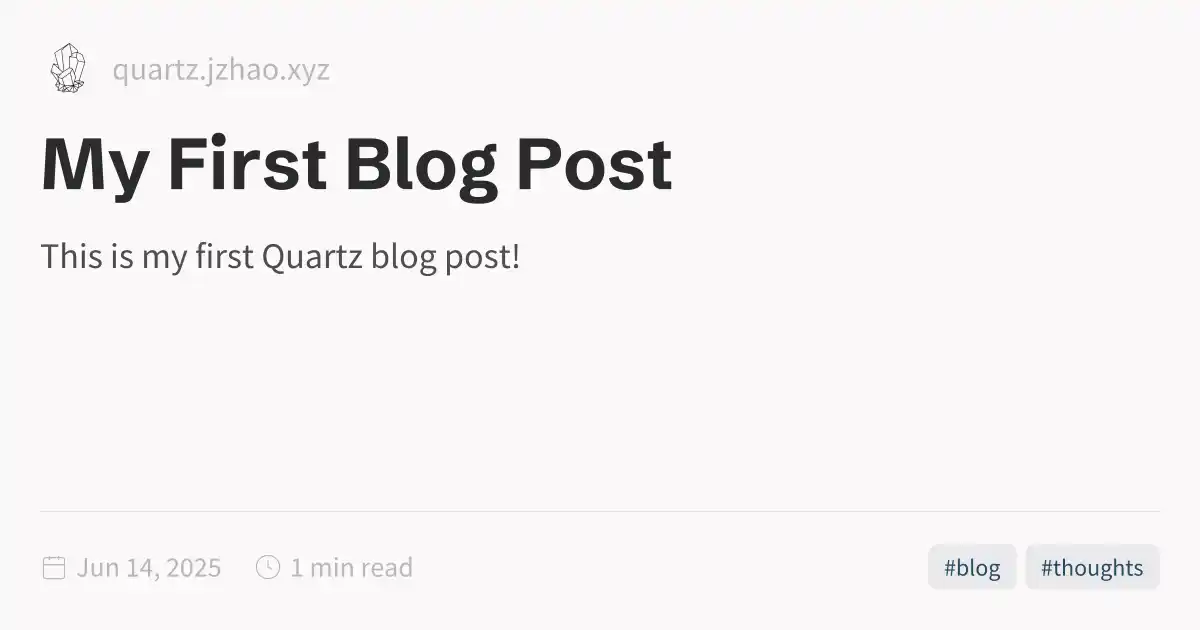
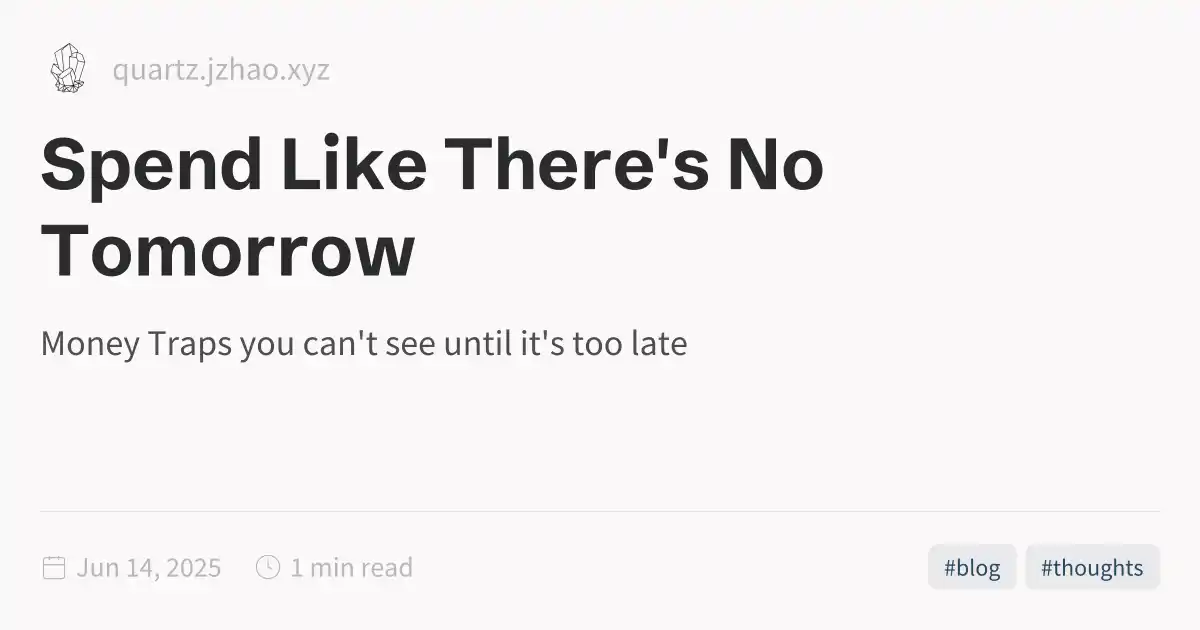
Update site content

Changed region(s): [[0.0308, 0.2111, 0.7092, 0.3317], [0.0308, 0.3317, 0.4317, 0.4524], [0.0308, 0.5127, 0.5858, 0.573]]

diff --git a/blog-first-post.html b/blog-first-post.html
@@ -1,5 +1,5 @@
 <!DOCTYPE html>
-<html lang="en"><head><title>My First Blog Post</title><meta charset="utf-8"/><link rel="preconnect" href="https://fonts.googleapis.com"/><link rel="preconnect" href="https://fonts.gstatic.com"/><link rel="stylesheet" href="https://fonts.googleapis.com/css2?family=Schibsted Grotesk:wght@400;700&amp;family=Source Sans Pro:ital,wght@0,400;0,600;1,400;1,600&amp;family=IBM Plex Mono:wght@400;600&amp;display=swap"/><link rel="preconnect" href="https://cdnjs.cloudflare.com" crossorigin="anonymous"/><meta name="viewport" content="width=device-width, initial-scale=1.0"/><meta name="og:site_name" content="MoneyBoth"/><meta property="og:title" content="My First Blog Post"/><meta property="og:type" content="website"/><meta name="twitter:card" content="summary_large_image"/><meta name="twitter:title" content="My First Blog Post"/><meta name="twitter:description" content="This is my first Quartz blog post!"/><meta property="og:description" content="This is my first Quartz blog post!"/><meta property="og:image:alt" content="This is my first Quartz blog post!"/><meta property="twitter:domain" content="quartz.jzhao.xyz"/><meta property="og:url" content="https://quartz.jzhao.xyz/blog-first-post"/><meta property="twitter:url" content="https://quartz.jzhao.xyz/blog-first-post"/><link rel="icon" href="./static/icon.png"/><meta name="description" content="This is my first Quartz blog post!"/><meta name="generator" content="Quartz"/><link href="./index.css" rel="stylesheet" type="text/css" spa-preserve/><style>.expand-button {
+<html lang="en"><head><title>Spend Like There's No Tomorrow</title><meta charset="utf-8"/><link rel="preconnect" href="https://fonts.googleapis.com"/><link rel="preconnect" href="https://fonts.gstatic.com"/><link rel="stylesheet" href="https://fonts.googleapis.com/css2?family=Schibsted Grotesk:wght@400;700&amp;family=Source Sans Pro:ital,wght@0,400;0,600;1,400;1,600&amp;family=IBM Plex Mono:wght@400;600&amp;display=swap"/><link rel="preconnect" href="https://cdnjs.cloudflare.com" crossorigin="anonymous"/><meta name="viewport" content="width=device-width, initial-scale=1.0"/><meta name="og:site_name" content="MoneyBoth"/><meta property="og:title" content="Spend Like There's No Tomorrow"/><meta property="og:type" content="website"/><meta name="twitter:card" content="summary_large_image"/><meta name="twitter:title" content="Spend Like There's No Tomorrow"/><meta name="twitter:description" content="Money Traps you can't see until it's too late"/><meta property="og:description" content="Money Traps you can't see until it's too late"/><meta property="og:image:alt" content="Money Traps you can't see until it's too late"/><meta property="twitter:domain" content="quartz.jzhao.xyz"/><meta property="og:url" content="https://quartz.jzhao.xyz/blog-first-post"/><meta property="twitter:url" content="https://quartz.jzhao.xyz/blog-first-post"/><link rel="icon" href="./static/icon.png"/><meta name="description" content="Money Traps you can't see until it's too late"/><meta name="generator" content="Quartz"/><link href="./index.css" rel="stylesheet" type="text/css" spa-preserve/><style>.expand-button {
   position: absolute;
   display: flex;
   float: right;
@@ -116,13 +116,8 @@ pre:hover > .expand-button {
   padding: 0 12px;
   font-size: 14px;
 }
[1 lines of base64/hex data omitted]
-<p>You can add <strong>Markdown</strong>, links, images, etc.</p>
-<ul>
-<li>Bullet points</li>
-<li>Code blocks</li>
-<li>Quotes</li>
-</ul></article><hr/><div class="page-footer"></div></div><div class="right sidebar"><div class="graph"><h3>Graph View</h3><div class="graph-outer"><div class="graph-container" data-cfg="{&quot;drag&quot;:true,&quot;zoom&quot;:true,&quot;depth&quot;:1,&quot;scale&quot;:1.1,&quot;repelForce&quot;:0.5,&quot;centerForce&quot;:0.3,&quot;linkDistance&quot;:30,&quot;fontSize&quot;:0.6,&quot;opacityScale&quot;:1,&quot;showTags&quot;:true,&quot;removeTags&quot;:[],&quot;focusOnHover&quot;:false,&quot;enableRadial&quot;:false}"></div><button class="global-graph-icon" aria-label="Global Graph"><svg version="1.1" xmlns="http://www.w3.org/2000/svg" xmlns:xlink="http://www.w3.org/1999/xlink" x="0px" y="0px" viewBox="0 0 55 55" fill="currentColor" xml:space="preserve"><path d="M49,0c-3.309,0-6,2.691-6,6c0,1.035,0.263,2.009,0.726,2.86l-9.829,9.829C32.542,17.634,30.846,17,29,17
[1 lines of base64/hex data omitted]
+<p>That’s right - “How was your weekend?” Oh we went to</p></article><hr/><div class="page-footer"></div></div><div class="right sidebar"><div class="graph"><h3>Graph View</h3><div class="graph-outer"><div class="graph-container" data-cfg="{&quot;drag&quot;:true,&quot;zoom&quot;:true,&quot;depth&quot;:1,&quot;scale&quot;:1.1,&quot;repelForce&quot;:0.5,&quot;centerForce&quot;:0.3,&quot;linkDistance&quot;:30,&quot;fontSize&quot;:0.6,&quot;opacityScale&quot;:1,&quot;showTags&quot;:true,&quot;removeTags&quot;:[],&quot;focusOnHover&quot;:false,&quot;enableRadial&quot;:false}"></div><button class="global-graph-icon" aria-label="Global Graph"><svg version="1.1" xmlns="http://www.w3.org/2000/svg" xmlns:xlink="http://www.w3.org/1999/xlink" x="0px" y="0px" viewBox="0 0 55 55" fill="currentColor" xml:space="preserve"><path d="M49,0c-3.309,0-6,2.691-6,6c0,1.035,0.263,2.009,0.726,2.86l-9.829,9.829C32.542,17.634,30.846,17,29,17
                 s-3.542,0.634-4.898,1.688l-7.669-7.669C16.785,10.424,17,9.74,17,9c0-2.206-1.794-4-4-4S9,6.794,9,9s1.794,4,4,4
                 c0.74,0,1.424-0.215,2.019-0.567l7.669,7.669C21.634,21.458,21,23.154,21,25s0.634,3.542,1.688,4.897L10.024,42.562
                 C8.958,41.595,7.549,41,6,41c-3.309,0-6,2.691-6,6s2.691,6,6,6s6-2.691,6-6c0-1.035-0.263-2.009-0.726-2.86l12.829-12.829

diff --git a/tags/blog.html b/tags/blog.html
@@ -116,6 +116,6 @@ pre:hover > .expand-button {
   padding: 0 12px;
   font-size: 14px;
 }
[2 lines of base64/hex data omitted]
 </script><script type="module">function f(i,e){if(!i)return;function r(o){o.target===this&&(o.preventDefault(),o.stopPropagation(),e())}function t(o){o.key.startsWith("Esc")&&(o.preventDefault(),e())}i?.addEventListener("click",r),window.addCleanup(()=>i?.removeEventListener("click",r)),document.addEventListener("keydown",t),window.addCleanup(()=>document.removeEventListener("keydown",t))}function y(i){for(;i.firstChild;)i.removeChild(i.firstChild)}var h=class{constructor(e,r){this.container=e;this.content=r;this.setupEventListeners(),this.setupNavigationControls(),this.resetTransform()}isDragging=!1;startPan={x:0,y:0};currentPan={x:0,y:0};scale=1;MIN_SCALE=.5;MAX_SCALE=3;cleanups=[];setupEventListeners(){let e=this.onMouseDown.bind(this),r=this.onMouseMove.bind(this),t=this.onMouseUp.bind(this),o=this.resetTransform.bind(this);this.container.addEventListener("mousedown",e),document.addEventListener("mousemove",r),document.addEventListener("mouseup",t),window.addEventListener("resize",o),this.cleanups.push(()=>this.container.removeEventListener("mousedown",e),()=>document.removeEventListener("mousemove",r),()=>document.removeEventListener("mouseup",t),()=>window.removeEventListener("resize",o))}cleanup(){for(let e of this.cleanups)e()}setupNavigationControls(){let e=document.createElement("div");e.className="mermaid-controls";let r=this.createButton("+",()=>this.zoom(.1)),t=this.createButton("-",()=>this.zoom(-.1)),o=this.createButton("Reset",()=>this.resetTransform());e.appendChild(t),e.appendChild(o),e.appendChild(r),this.container.appendChild(e)}createButton(e,r){let t=document.createElement("button");return t.textContent=e,t.className="mermaid-control-button",t.addEventListener("click",r),window.addCleanup(()=>t.removeEventListener("click",r)),t}onMouseDown(e){e.button===0&&(this.isDragging=!0,this.startPan={x:e.clientX-this.currentPan.x,y:e.clientY-this.currentPan.y},this.container.style.cursor="grabbing")}onMouseMove(e){this.isDragging&&(e.preventDefault(),this.currentPan={x:e.clientX-this.startPan.x,y:e.clientY-this.startPan.y},this.updateTransform())}onMouseUp(){this.isDragging=!1,this.container.style.cursor="grab"}zoom(e){let r=Math.min(Math.max(this.scale+e,this.MIN_SCALE),this.MAX_SCALE),t=this.content.getBoundingClientRect(),o=t.width/2,n=t.height/2,c=r-this.scale;this.currentPan.x-=o*c,this.currentPan.y-=n*c,this.scale=r,this.updateTransform()}updateTransform(){this.content.style.transform=`translate(${this.currentPan.x}px, ${this.currentPan.y}px) scale(${this.scale})`}resetTransform(){this.scale=1;let e=this.content.querySelector("svg");this.currentPan={x:e.getBoundingClientRect().width/2,y:e.getBoundingClientRect().height/2},this.updateTransform()}},C=["--secondary","--tertiary","--gray","--light","--lightgray","--highlight","--dark","--darkgray","--codeFont"],E;document.addEventListener("nav",async()=>{let e=document.querySelector(".center").querySelectorAll("code.mermaid");if(e.length===0)return;E||=await import("https://cdnjs.cloudflare.com/ajax/libs/mermaid/11.4.0/mermaid.esm.min.mjs");let r=E.default,t=new WeakMap;for(let n of e)t.set(n,n.innerText);async function o(){for(let s of e){s.removeAttribute("data-processed");let a=t.get(s);a&&(s.innerHTML=a)}let n=C.reduce((s,a)=>(s[a]=window.getComputedStyle(document.documentElement).getPropertyValue(a),s),{}),c=document.documentElement.getAttribute("saved-theme")==="dark";r.initialize({startOnLoad:!1,securityLevel:"loose",theme:c?"dark":"base",themeVariables:{fontFamily:n["--codeFont"],primaryColor:n["--light"],primaryTextColor:n["--darkgray"],primaryBorderColor:n["--tertiary"],lineColor:n["--darkgray"],secondaryColor:n["--secondary"],tertiaryColor:n["--tertiary"],clusterBkg:n["--light"],edgeLabelBackground:n["--highlight"]}}),await r.run({nodes:e})}await o(),document.addEventListener("themechange",o),window.addCleanup(()=>document.removeEventListener("themechange",o));for(let n=0;n<e.length;n++){let v=function(){let g=l.querySelector("#mermaid-space"),m=l.querySelector(".mermaid-content");if(!m)return;y(m);let w=c.querySelector("svg").cloneNode(!0);m.appendChild(w),l.classList.add("active"),g.style.cursor="grab",u=new h(g,m)},M=function(){l.classList.remove("active"),u?.cleanup(),u=null},c=e[n],s=c.parentElement,a=s.querySelector(".clipboard-button"),d=s.querySelector(".expand-button"),p=window.getComputedStyle(a),L=a.offsetWidth+parseFloat(p.marginLeft||"0")+parseFloat(p.marginRight||"0");d.style.right=`calc(${L}px + 0.3rem)`,s.prepend(d);let l=s.querySelector("#mermaid-container");if(!l)return;let u=null;d.addEventListener("click",v),f(l,M),window.addCleanup(()=>{u?.cleanup(),d.removeEventListener("click",v)})}});
 </script><script src="https://cdn.jsdelivr.net/npm/katex@0.16.11/dist/contrib/copy-tex.min.js" type="application/javascript"></script><script src="../postscript.js" type="module"></script></html>

diff --git a/tags/index.html b/tags/index.html
@@ -116,6 +116,6 @@ pre:hover > .expand-button {
   padding: 0 12px;
   font-size: 14px;
 }
[2 lines of base64/hex data omitted]
 </script><script type="module">function f(i,e){if(!i)return;function r(o){o.target===this&&(o.preventDefault(),o.stopPropagation(),e())}function t(o){o.key.startsWith("Esc")&&(o.preventDefault(),e())}i?.addEventListener("click",r),window.addCleanup(()=>i?.removeEventListener("click",r)),document.addEventListener("keydown",t),window.addCleanup(()=>document.removeEventListener("keydown",t))}function y(i){for(;i.firstChild;)i.removeChild(i.firstChild)}var h=class{constructor(e,r){this.container=e;this.content=r;this.setupEventListeners(),this.setupNavigationControls(),this.resetTransform()}isDragging=!1;startPan={x:0,y:0};currentPan={x:0,y:0};scale=1;MIN_SCALE=.5;MAX_SCALE=3;cleanups=[];setupEventListeners(){let e=this.onMouseDown.bind(this),r=this.onMouseMove.bind(this),t=this.onMouseUp.bind(this),o=this.resetTransform.bind(this);this.container.addEventListener("mousedown",e),document.addEventListener("mousemove",r),document.addEventListener("mouseup",t),window.addEventListener("resize",o),this.cleanups.push(()=>this.container.removeEventListener("mousedown",e),()=>document.removeEventListener("mousemove",r),()=>document.removeEventListener("mouseup",t),()=>window.removeEventListener("resize",o))}cleanup(){for(let e of this.cleanups)e()}setupNavigationControls(){let e=document.createElement("div");e.className="mermaid-controls";let r=this.createButton("+",()=>this.zoom(.1)),t=this.createButton("-",()=>this.zoom(-.1)),o=this.createButton("Reset",()=>this.resetTransform());e.appendChild(t),e.appendChild(o),e.appendChild(r),this.container.appendChild(e)}createButton(e,r){let t=document.createElement("button");return t.textContent=e,t.className="mermaid-control-button",t.addEventListener("click",r),window.addCleanup(()=>t.removeEventListener("click",r)),t}onMouseDown(e){e.button===0&&(this.isDragging=!0,this.startPan={x:e.clientX-this.currentPan.x,y:e.clientY-this.currentPan.y},this.container.style.cursor="grabbing")}onMouseMove(e){this.isDragging&&(e.preventDefault(),this.currentPan={x:e.clientX-this.startPan.x,y:e.clientY-this.startPan.y},this.updateTransform())}onMouseUp(){this.isDragging=!1,this.container.style.cursor="grab"}zoom(e){let r=Math.min(Math.max(this.scale+e,this.MIN_SCALE),this.MAX_SCALE),t=this.content.getBoundingClientRect(),o=t.width/2,n=t.height/2,c=r-this.scale;this.currentPan.x-=o*c,this.currentPan.y-=n*c,this.scale=r,this.updateTransform()}updateTransform(){this.content.style.transform=`translate(${this.currentPan.x}px, ${this.currentPan.y}px) scale(${this.scale})`}resetTransform(){this.scale=1;let e=this.content.querySelector("svg");this.currentPan={x:e.getBoundingClientRect().width/2,y:e.getBoundingClientRect().height/2},this.updateTransform()}},C=["--secondary","--tertiary","--gray","--light","--lightgray","--highlight","--dark","--darkgray","--codeFont"],E;document.addEventListener("nav",async()=>{let e=document.querySelector(".center").querySelectorAll("code.mermaid");if(e.length===0)return;E||=await import("https://cdnjs.cloudflare.com/ajax/libs/mermaid/11.4.0/mermaid.esm.min.mjs");let r=E.default,t=new WeakMap;for(let n of e)t.set(n,n.innerText);async function o(){for(let s of e){s.removeAttribute("data-processed");let a=t.get(s);a&&(s.innerHTML=a)}let n=C.reduce((s,a)=>(s[a]=window.getComputedStyle(document.documentElement).getPropertyValue(a),s),{}),c=document.documentElement.getAttribute("saved-theme")==="dark";r.initialize({startOnLoad:!1,securityLevel:"loose",theme:c?"dark":"base",themeVariables:{fontFamily:n["--codeFont"],primaryColor:n["--light"],primaryTextColor:n["--darkgray"],primaryBorderColor:n["--tertiary"],lineColor:n["--darkgray"],secondaryColor:n["--secondary"],tertiaryColor:n["--tertiary"],clusterBkg:n["--light"],edgeLabelBackground:n["--highlight"]}}),await r.run({nodes:e})}await o(),document.addEventListener("themechange",o),window.addCleanup(()=>document.removeEventListener("themechange",o));for(let n=0;n<e.length;n++){let v=function(){let g=l.querySelector("#mermaid-space"),m=l.querySelector(".mermaid-content");if(!m)return;y(m);let w=c.querySelector("svg").cloneNode(!0);m.appendChild(w),l.classList.add("active"),g.style.cursor="grab",u=new h(g,m)},M=function(){l.classList.remove("active"),u?.cleanup(),u=null},c=e[n],s=c.parentElement,a=s.querySelector(".clipboard-button"),d=s.querySelector(".expand-button"),p=window.getComputedStyle(a),L=a.offsetWidth+parseFloat(p.marginLeft||"0")+parseFloat(p.marginRight||"0");d.style.right=`calc(${L}px + 0.3rem)`,s.prepend(d);let l=s.querySelector("#mermaid-container");if(!l)return;let u=null;d.addEventListener("click",v),f(l,M),window.addCleanup(()=>{u?.cleanup(),d.removeEventListener("click",v)})}});
 </script><script src="https://cdn.jsdelivr.net/npm/katex@0.16.11/dist/contrib/copy-tex.min.js" type="application/javascript"></script><script src="../postscript.js" type="module"></script></html>

diff --git a/tags/thoughts.html b/tags/thoughts.html
@@ -116,6 +116,6 @@ pre:hover > .expand-button {
   padding: 0 12px;
   font-size: 14px;
 }
[2 lines of base64/hex data omitted]
 </script><script type="module">function f(i,e){if(!i)return;function r(o){o.target===this&&(o.preventDefault(),o.stopPropagation(),e())}function t(o){o.key.startsWith("Esc")&&(o.preventDefault(),e())}i?.addEventListener("click",r),window.addCleanup(()=>i?.removeEventListener("click",r)),document.addEventListener("keydown",t),window.addCleanup(()=>document.removeEventListener("keydown",t))}function y(i){for(;i.firstChild;)i.removeChild(i.firstChild)}var h=class{constructor(e,r){this.container=e;this.content=r;this.setupEventListeners(),this.setupNavigationControls(),this.resetTransform()}isDragging=!1;startPan={x:0,y:0};currentPan={x:0,y:0};scale=1;MIN_SCALE=.5;MAX_SCALE=3;cleanups=[];setupEventListeners(){let e=this.onMouseDown.bind(this),r=this.onMouseMove.bind(this),t=this.onMouseUp.bind(this),o=this.resetTransform.bind(this);this.container.addEventListener("mousedown",e),document.addEventListener("mousemove",r),document.addEventListener("mouseup",t),window.addEventListener("resize",o),this.cleanups.push(()=>this.container.removeEventListener("mousedown",e),()=>document.removeEventListener("mousemove",r),()=>document.removeEventListener("mouseup",t),()=>window.removeEventListener("resize",o))}cleanup(){for(let e of this.cleanups)e()}setupNavigationControls(){let e=document.createElement("div");e.className="mermaid-controls";let r=this.createButton("+",()=>this.zoom(.1)),t=this.createButton("-",()=>this.zoom(-.1)),o=this.createButton("Reset",()=>this.resetTransform());e.appendChild(t),e.appendChild(o),e.appendChild(r),this.container.appendChild(e)}createButton(e,r){let t=document.createElement("button");return t.textContent=e,t.className="mermaid-control-button",t.addEventListener("click",r),window.addCleanup(()=>t.removeEventListener("click",r)),t}onMouseDown(e){e.button===0&&(this.isDragging=!0,this.startPan={x:e.clientX-this.currentPan.x,y:e.clientY-this.currentPan.y},this.container.style.cursor="grabbing")}onMouseMove(e){this.isDragging&&(e.preventDefault(),this.currentPan={x:e.clientX-this.startPan.x,y:e.clientY-this.startPan.y},this.updateTransform())}onMouseUp(){this.isDragging=!1,this.container.style.cursor="grab"}zoom(e){let r=Math.min(Math.max(this.scale+e,this.MIN_SCALE),this.MAX_SCALE),t=this.content.getBoundingClientRect(),o=t.width/2,n=t.height/2,c=r-this.scale;this.currentPan.x-=o*c,this.currentPan.y-=n*c,this.scale=r,this.updateTransform()}updateTransform(){this.content.style.transform=`translate(${this.currentPan.x}px, ${this.currentPan.y}px) scale(${this.scale})`}resetTransform(){this.scale=1;let e=this.content.querySelector("svg");this.currentPan={x:e.getBoundingClientRect().width/2,y:e.getBoundingClientRect().height/2},this.updateTransform()}},C=["--secondary","--tertiary","--gray","--light","--lightgray","--highlight","--dark","--darkgray","--codeFont"],E;document.addEventListener("nav",async()=>{let e=document.querySelector(".center").querySelectorAll("code.mermaid");if(e.length===0)return;E||=await import("https://cdnjs.cloudflare.com/ajax/libs/mermaid/11.4.0/mermaid.esm.min.mjs");let r=E.default,t=new WeakMap;for(let n of e)t.set(n,n.innerText);async function o(){for(let s of e){s.removeAttribute("data-processed");let a=t.get(s);a&&(s.innerHTML=a)}let n=C.reduce((s,a)=>(s[a]=window.getComputedStyle(document.documentElement).getPropertyValue(a),s),{}),c=document.documentElement.getAttribute("saved-theme")==="dark";r.initialize({startOnLoad:!1,securityLevel:"loose",theme:c?"dark":"base",themeVariables:{fontFamily:n["--codeFont"],primaryColor:n["--light"],primaryTextColor:n["--darkgray"],primaryBorderColor:n["--tertiary"],lineColor:n["--darkgray"],secondaryColor:n["--secondary"],tertiaryColor:n["--tertiary"],clusterBkg:n["--light"],edgeLabelBackground:n["--highlight"]}}),await r.run({nodes:e})}await o(),document.addEventListener("themechange",o),window.addCleanup(()=>document.removeEventListener("themechange",o));for(let n=0;n<e.length;n++){let v=function(){let g=l.querySelector("#mermaid-space"),m=l.querySelector(".mermaid-content");if(!m)return;y(m);let w=c.querySelector("svg").cloneNode(!0);m.appendChild(w),l.classList.add("active"),g.style.cursor="grab",u=new h(g,m)},M=function(){l.classList.remove("active"),u?.cleanup(),u=null},c=e[n],s=c.parentElement,a=s.querySelector(".clipboard-button"),d=s.querySelector(".expand-button"),p=window.getComputedStyle(a),L=a.offsetWidth+parseFloat(p.marginLeft||"0")+parseFloat(p.marginRight||"0");d.style.right=`calc(${L}px + 0.3rem)`,s.prepend(d);let l=s.querySelector("#mermaid-container");if(!l)return;let u=null;d.addEventListener("click",v),f(l,M),window.addCleanup(()=>{u?.cleanup(),d.removeEventListener("click",v)})}});
 </script><script src="https://cdn.jsdelivr.net/npm/katex@0.16.11/dist/contrib/copy-tex.min.js" type="application/javascript"></script><script src="../postscript.js" type="module"></script></html>